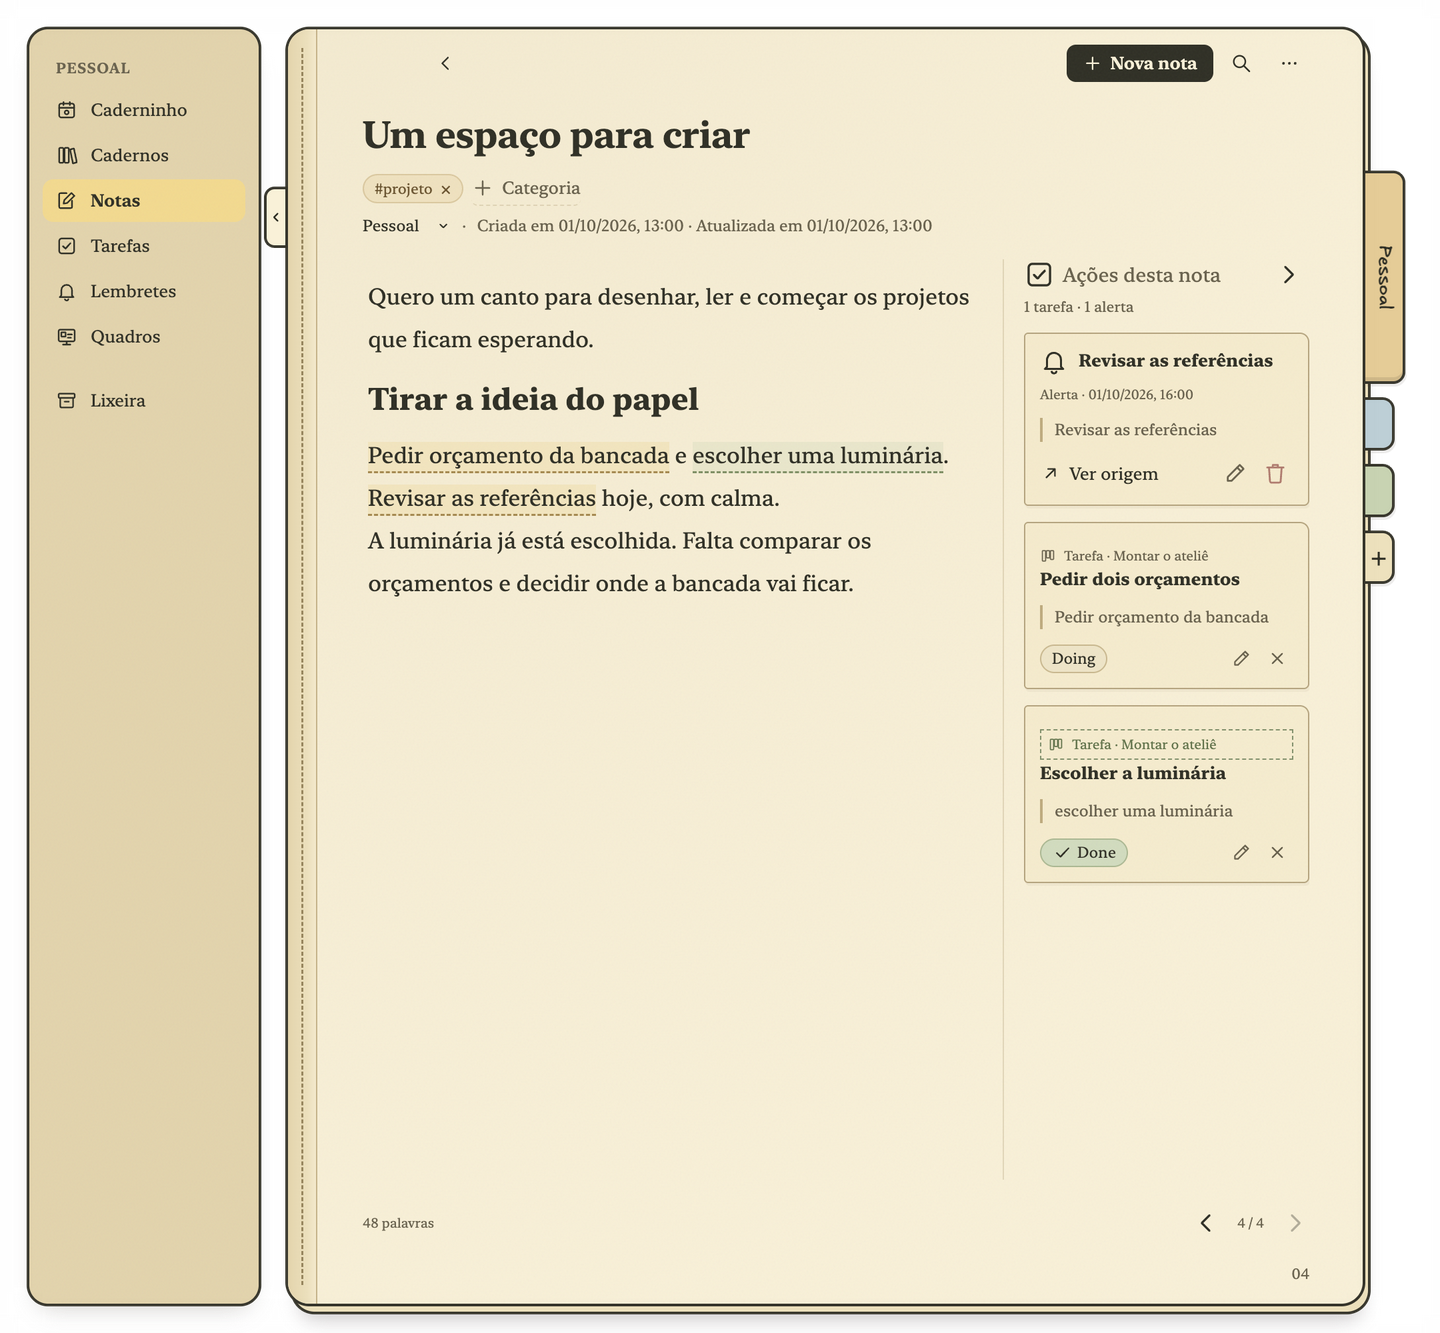
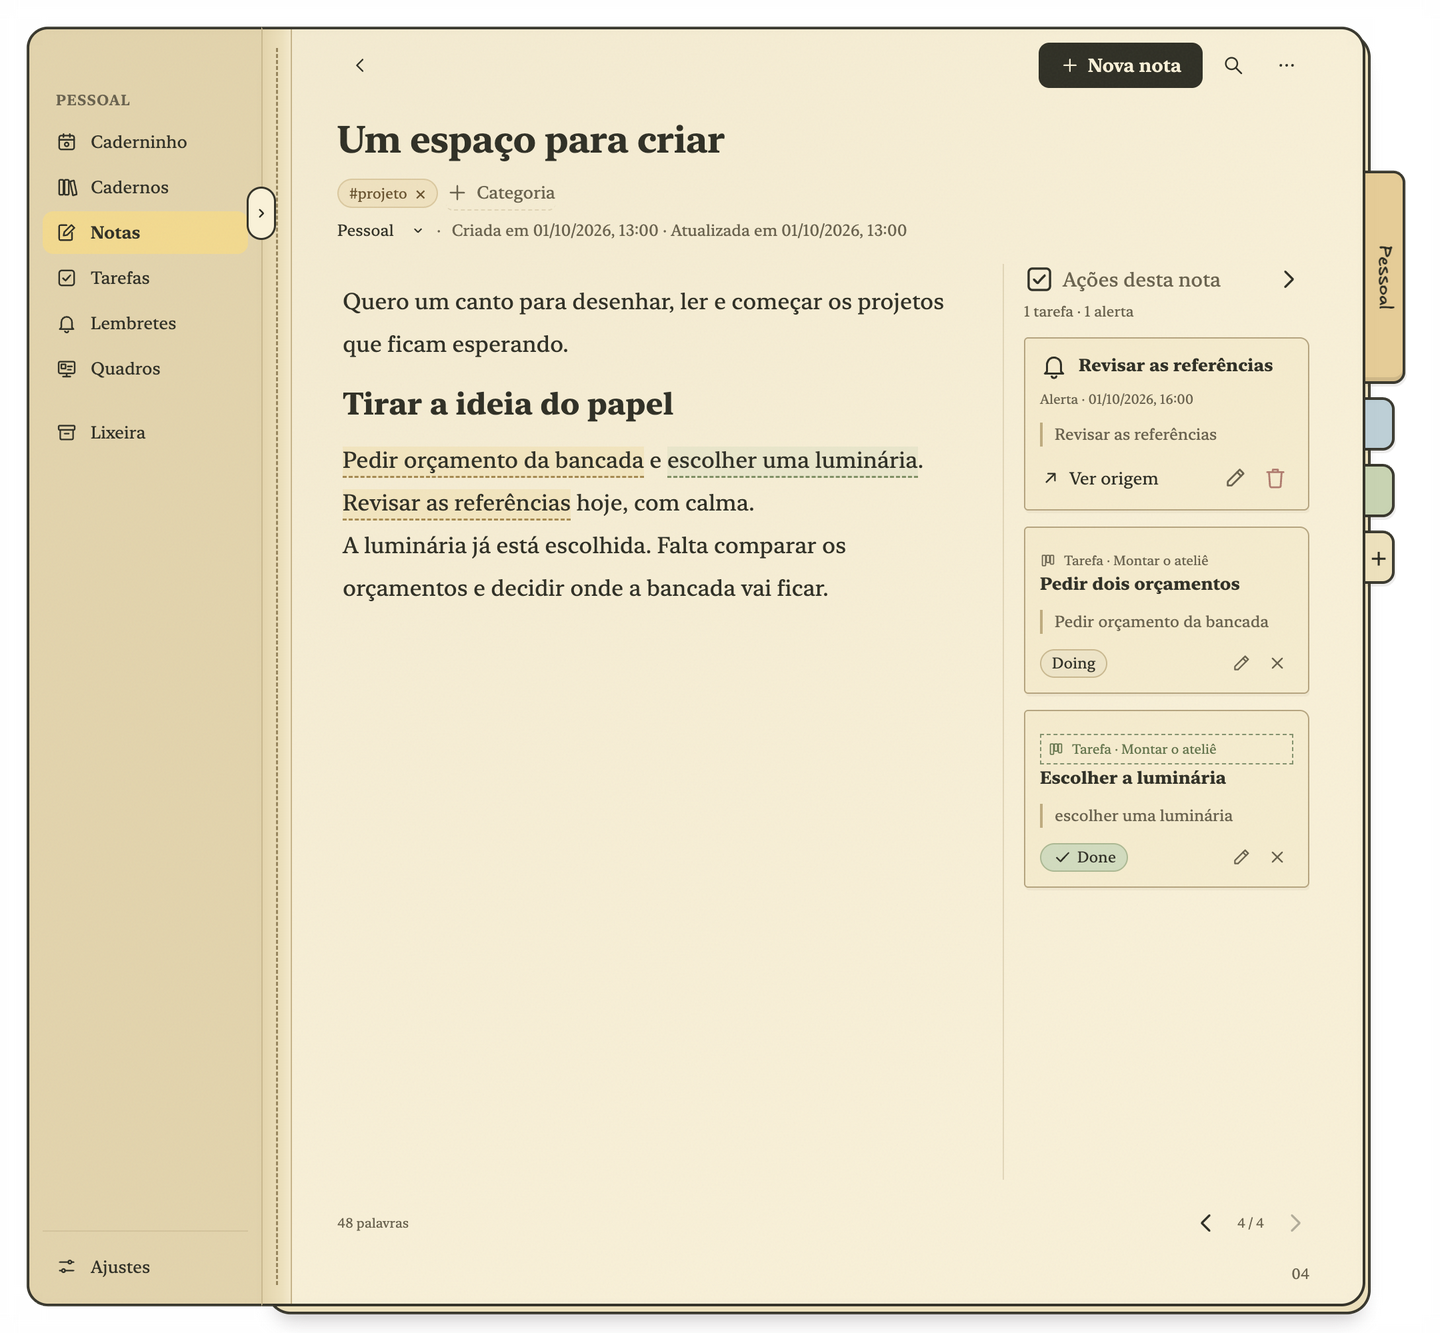
docs: user guide, development notes, screenshots and site for the new home (spec 012)

diff --git a/site/index.html b/site/index.html
@@ -95,13 +95,17 @@ svg.i{width:16px;height:16px;flex:none;fill:none;stroke:currentColor;stroke-widt
 .dots i.on{background:var(--ink);transform:scale(1.3)}
 
 /* book */
-.book{position:relative;height:min(700px,calc(100vh - 110px));display:grid;grid-template-columns:168px minmax(0,1fr);gap:10px}
-.side{background:var(--kraft);border:2px solid var(--edge);border-radius:14px;padding:22px 12px;box-shadow:0 4px 0 -1px #d9c38f,0 4px 0 1px var(--edge)}
+.book{position:relative;height:min(700px,calc(100vh - 110px));display:grid;grid-template-columns:168px minmax(0,1fr);gap:0}
+.side{position:relative;background:var(--kraft);border:2px solid var(--edge);border-right:0;border-radius:14px 0 0 14px;padding:46px 12px 22px;box-shadow:0 4px 0 -1px #d9c38f,0 4px 0 1px var(--edge)}
+.side .lights{position:absolute;left:14px;top:16px;display:flex;gap:8px}
+.side .lights i{width:12px;height:12px;border-radius:50%;background:#ff5f57;border:.5px solid #0000001f}
+.side .lights i:nth-child(2){background:#febc2e}
+.side .lights i:nth-child(3){background:#28c840}
 .side .nb{font-size:11px;letter-spacing:.08em;color:var(--muted);font-weight:650;margin:0 0 12px 10px}
 .side div.row{display:flex;align-items:center;gap:10px;font-size:14px;padding:7px 10px;border-radius:8px;margin-bottom:2px;transition:background .3s}
 .side div.row.on{background:var(--select);font-weight:650}
 .side .gap{height:14px}
-.paper{position:relative;border:2px solid var(--edge);border-radius:14px;background:var(--paper);perspective:2200px;box-shadow:0 5px 0 -1px var(--shade),0 5px 0 1px var(--edge),0 10px 0 -1px var(--shade),0 10px 0 1px var(--edge),0 30px 50px -24px rgba(54,53,42,.45)}
+.paper{position:relative;border:2px solid var(--edge);border-left-width:1px;border-radius:0 14px 14px 0;background:var(--paper);perspective:2200px;box-shadow:0 5px 0 -1px var(--shade),0 5px 0 1px var(--edge),0 10px 0 -1px var(--shade),0 10px 0 1px var(--edge),0 30px 50px -24px rgba(54,53,42,.45)}
 .paper::before{content:"";position:absolute;left:14px;top:0;bottom:0;border-left:1.5px dashed var(--hairline);z-index:4}
 .tabs{position:absolute;right:-26px;top:120px;display:flex;flex-direction:column;gap:8px;z-index:-1}
 .tabs i{display:block;width:26px;border:2px solid var(--edge);border-left:0;border-radius:0 8px 8px 0}
@@ -214,7 +218,7 @@ svg.i{width:16px;height:16px;flex:none;fill:none;stroke:currentColor;stroke-widt
 /* day pages */
 .dayhead{display:flex;justify-content:space-between;align-items:flex-end;gap:16px;margin-bottom:6px}
 .dayhead .date{font:clamp(18px,2vw,24px) var(--hand);color:var(--ink);text-align:right}
-.daysum{font-size:13px;color:var(--muted);margin-bottom:14px}
+.pair{display:grid;grid-template-columns:1fr 1fr;gap:18px}
 .ro{display:inline-flex;align-items:center;font-size:12px;font-weight:400;border:1px dashed var(--muted);color:var(--muted);border-radius:4px;padding:1px 7px;margin-left:10px;vertical-align:5px}
 .strip{border-top:1px solid var(--hairline);padding:9px 0 12px}
 .strip h3{font-size:16px;font-weight:600;display:flex;align-items:center;gap:8px;margin:0 0 8px}
@@ -324,6 +328,7 @@ footer{display:flex;justify-content:space-between;flex-wrap:wrap;gap:10px;font-s
 @media (max-width:1100px){
   .book{grid-template-columns:minmax(0,1fr)}
   .side{display:none}
+  .paper{border-left-width:2px;border-radius:14px}
   .stage{gap:32px}
 }
 @media (max-width:860px){
@@ -349,6 +354,7 @@ footer{display:flex;justify-content:space-between;flex-wrap:wrap;gap:10px;font-s
   .tmodal{grid-template-columns:1fr;left:3%;right:3%}
   .tmodal .tside{display:none}
   .strip.st-last{display:none}
+  .pair{grid-template-columns:1fr}
   .postit{font-size:12px;height:76px;padding:6px}
   .postit[style*="top:226px"]{top:186px!important}
   .bt{font-size:20px}
@@ -438,7 +444,7 @@ footer{display:flex;justify-content:space-between;flex-wrap:wrap;gap:10px;font-s
       </div>
       <div class="cap" data-for="8">
         <p>Todo dia começa com uma página que junta o que importa.</p>
-        <p class="small">A última nota e as páginas ligadas a ela, a lista de tarefas mais recente e os lembretes de hoje.</p>
+        <p class="small">Um espaço para escrever o dia, as conexões da última nota, os lembretes de hoje e a lista de tarefas mais recente.</p>
       </div>
       <div class="cap" data-for="9">
         <p>Os dias anteriores ficam guardados como estavam.</p>
@@ -457,6 +463,7 @@ footer{display:flex;justify-content:space-between;flex-wrap:wrap;gap:10px;font-s
 
     <div class="book" aria-hidden="true">
       <div class="side">
+        <div class="lights"><i></i><i></i><i></i></div>
         <div class="nb">PESSOAL</div>
         <div class="row" data-nav="dia"><svg class="i"><use href="#i-cal"/></svg>Caderninho</div>
         <div class="row"><svg class="i"><use href="#i-books"/></svg>Cadernos</div>
@@ -541,9 +548,19 @@ footer{display:flex;justify-content:space-between;flex-wrap:wrap;gap:10px;font-s
         </div>
 
         <div class="pg" data-page="hoje">
-          <div class="dayhead"><h2>Página do dia</h2><div class="date">quinta-feira, 1 de outubro</div></div>
-          <div class="daysum">3 lembretes · 4 notas recentes</div>
-          <div class="strip st-last"><h3><span class="fold">▾</span><svg class="i"><use href="#i-note"/></svg>Última nota<span class="aside">com conexões</span></h3><div class="last"><b>Reforma da cozinha</b><p>Conversei com a Ana sobre a bancada. A ideia é trocar o granito por madeira…</p></div></div>
+          <div class="dayhead"><span></span><div class="date">quinta-feira, 1 de outubro</div></div>
+          <div class="strip"><h3><span class="fold">▾</span><svg class="i"><use href="#i-note"/></svg>Nota do dia</h3><div class="last"><p>Ligar para a marcenaria antes das 16h. Levar as medidas da parede da pia.</p></div></div>
+          <div class="pair">
+            <div class="strip st-last"><h3><span class="fold">▾</span><svg class="i"><use href="#i-note"/></svg>Conexões<span class="aside">Reforma da cozinha</span></h3>
+              <div class="rem">Pedir dois orçamentos</div>
+              <div class="rem">Ideias para a bancada</div>
+            </div>
+            <div class="strip"><h3><span class="fold">▾</span><svg class="i"><use href="#i-bell"/></svg>Lembretes de hoje</h3>
+              <div class="rem"><b>14:00</b>Revisar o planejamento</div>
+              <div class="rem"><b>16:00</b>Ligar para o eletricista</div>
+              <div class="rem"><b>18:00</b>Pausa para caminhar</div>
+            </div>
+          </div>
           <div class="strip mini"><h3><span class="fold">▾</span><svg class="i"><use href="#i-kanban"/></svg>Reforma da cozinha<span class="aside">último pipeline · 2 finalizados de 6</span></h3>
             <div class="kb">
               <div class="kc"><h4>Backlog <i>2</i></h4><div class="kd">Trocar o rejunte da pia<small>12/09</small></div><div class="kd">Escolher a torneira<small>14/09</small></div></div>
@@ -553,16 +570,10 @@ footer{display:flex;justify-content:space-between;flex-wrap:wrap;gap:10px;font-s
               <div class="kc final"><h4>Done <i>2</i></h4><div class="kd">Pedir dois orçamentos<small>10/09</small></div><div class="kd">Ligar para o eletricista<small>09/09</small></div></div>
             </div>
           </div>
-          <div class="strip"><h3><span class="fold">▾</span><svg class="i"><use href="#i-bell"/></svg>Lembretes<span class="aside">3 neste dia</span></h3>
-            <div class="rem"><b>14:00</b>Revisar o planejamento</div>
-            <div class="rem"><b>16:00</b>Ligar para o eletricista</div>
-            <div class="rem"><b>18:00</b>Pausa para caminhar</div>
-          </div>
         </div>
 
         <div class="pg" data-page="ontem">
-          <div class="dayhead"><h2>Página anterior<span class="ro">somente leitura</span></h2><div class="date">quarta-feira, 30 de setembro</div></div>
-          <div class="daysum">1 lembrete · 3 notas do dia</div>
+          <div class="dayhead"><span class="ro">somente leitura</span><div class="date">quarta-feira, 30 de setembro</div></div>
           <div class="strip"><h3><span class="fold">▾</span><svg class="i"><use href="#i-bell"/></svg>Lembretes<span class="aside">1 neste dia</span></h3>
             <div class="rem"><b>10:30</b>Reunião do condomínio</div>
           </div>
@@ -619,8 +630,8 @@ footer{display:flex;justify-content:space-between;flex-wrap:wrap;gap:10px;font-s
       <figure><img src="img/kanban.webp" width="1440" height="926" loading="lazy" alt="Lista de tarefas Montar o ateliê dividida em cinco colunas, com a data de criação e o número de comentários em cada tarefa."><figcaption>Uma lista de tarefas, com uma coluna para cada etapa.</figcaption></figure>
     </div>
     <div class="shots">
-      <figure><img src="img/tarefa.webp" width="1306" height="1269" loading="lazy" alt="Tarefa aberta com detalhes em lista e tabela, uma imagem, comentários (um deles editado) e, ao lado, a etapa atual, o responsável, a data de criação e o histórico."><figcaption>Uma tarefa aberta, com os detalhes e a conversa.</figcaption></figure>
-      <figure><img src="img/pagina-do-dia.webp" width="1440" height="1543" loading="lazy" alt="Página do dia com a última nota, a lista de tarefas mais recente, os lembretes de hoje e as últimas notas."><figcaption>A página do dia.</figcaption></figure>
+      <figure><img src="img/tarefa.webp" width="1307" height="1227" loading="lazy" alt="Tarefa aberta com detalhes em lista e tabela, uma imagem, comentários (um deles editado) e, ao lado, a etapa atual, o responsável, a data de criação e o histórico."><figcaption>Uma tarefa aberta, com os detalhes e a conversa.</figcaption></figure>
+      <figure><img src="img/pagina-do-dia.webp" width="1440" height="1543" loading="lazy" alt="Página do dia com a nota do dia, as conexões da última nota ao lado dos lembretes de hoje, as últimas notas e a lista de tarefas mais recente."><figcaption>A página do dia.</figcaption></figure>
     </div>
     <figure class="wide"><img src="img/quadro.webp" width="1440" height="1200" loading="lazy" alt="Quadro Ideias para o ateliê com post-its coloridos ligados por setas e um título escrito à mão."><figcaption>Um quadro com post-its e setas.</figcaption></figure>
   </section>

diff --git a/docs/USER_GUIDE.md b/docs/USER_GUIDE.md
@@ -6,7 +6,7 @@ Os nomes de botões e menus aparecem em negrito, exatamente como estão no app.
 
 ## Comece por aqui
 
-Abra o **Caderninho.app**. A primeira tela, **Caderninho**, mostra em faixas a nota atualizada mais recentemente no caderno (com o grafo de conexões dela), o kanban do pipeline mais recente, os lembretes de hoje e as últimas notas.
+Abra o **Caderninho.app**. A primeira tela, **Caderninho**, mostra a **Nota do dia** (um espaço para escrever direto na página), as **Conexões** da última nota ao lado dos **Lembretes de hoje**, as **Últimas notas** e o kanban do pipeline mais recente.
 
 Para escrever, abra **Notas**: a seção abre na lista das suas notas. Clique numa nota para abri-la, ou em **+ Nova nota** para começar uma. Dê um título e comece. As mudanças são salvas automaticamente no seu computador. Se algo falhar, o app mostra um aviso.
 
@@ -30,7 +30,7 @@ Na própria página, o nome do caderno abaixo do título, ao lado das datas, per
 
 | Seção | Para quê |
 | --- | --- |
-| **Caderninho** | Visão do dia: última nota, kanban do pipeline mais recente, lembretes e últimas notas. |
+| **Caderninho** | Visão do dia: nota do dia, conexões da última nota, lembretes de hoje, últimas notas e kanban do pipeline mais recente. |
 | **Cadernos** | Criar, editar, abrir e remover cadernos. |
 | **Notas** | Texto livre, categorias, imagens, cartões de link e tarefas criadas a partir do texto. |
 | **Tarefas** | Pipelines: quadros kanban com colunas configuráveis, onde cada tarefa é um card. |
@@ -42,9 +42,15 @@ Na própria página, o nome do caderno abaixo do título, ao lado das datas, per
 
 ### Página do dia
 
-A página de hoje é feita de faixas, de cima para baixo: **Última nota** (com o grafo), o **kanban** do pipeline criado mais recentemente no caderno, **Lembretes** e **Últimas notas**. A seta à esquerda de cada faixa a recolhe ou abre, e o app lembra essa escolha. No kanban da home você arrasta cards entre colunas e clica num card para abrir a tarefa, como na página do pipeline; **Abrir pipeline** leva ao quadro inteiro. Sem pipelines, a faixa oferece **+ Novo pipeline**.
+A página de hoje é feita de seções, de cima para baixo:
 
-No topo da página de hoje, a nota mais recente do caderno aparece com a formatação e as mídias dela. Quando ela tem conexões, **Ideias por perto** as mostra ao lado, como um grafo. Use **Continuar nesta nota** para editá-la, ou clique numa conexão para abrir outra página. No dia seguinte, o resumo da página anterior (lembretes e últimas notas) continua disponível no seletor de datas. Os dias anteriores são somente leitura; escolha **Hoje** para voltar ao dia atual.
+- **Nota do dia**: escreva direto na página, com o mesmo editor das tarefas (blocos, `/`, formatação, listas e tabelas). A nota é criada quando você digita a primeira letra e salva sozinha enquanto você escreve. Cada caderno tem a sua nota do dia: ao trocar de caderno, aparece a nota daquele caderno (ou o campo em branco), e ao voltar a sua nota continua lá. Ela é uma nota comum: aparece em **Notas**, nas **Últimas notas** e na busca. No dia seguinte, o campo começa em branco. Se ela for para a lixeira, a próxima letra começa outra. Para adicionar mídia, diagramas ou ações na margem, abra a nota.
+- **Conexões**: o grafo da nota atualizada mais recentemente no caderno. Enquanto você escreve a nota do dia, ele espera você parar de digitar por alguns segundos antes de recalcular; o botão de recalcular faz isso na hora. O título no topo do card abre a nota. Sem nenhuma nota no caderno, o card não aparece.
+- **Lembretes de hoje**: os alertas do dia, ao lado das conexões.
+- **Últimas notas**: as três notas mais recentes, em cards.
+- **Kanban**: o pipeline criado mais recentemente no caderno. Você arrasta cards entre colunas e clica num card para abrir a tarefa, como na página do pipeline; **Abrir pipeline** leva ao quadro inteiro. Sem pipelines, aparece **+ Novo pipeline**.
+
+A seta à esquerda de cada seção a recolhe ou abre, e o app lembra essa escolha. No dia seguinte, a página anterior (lembretes e últimas notas) continua disponível no seletor de datas. Os dias anteriores são somente leitura e não mostram a nota do dia nem as conexões; escolha **Hoje** para voltar ao dia atual.
 
 ### Categorias
 
@@ -166,7 +172,7 @@ Nas notas, o histórico de desfazer inclui título, texto, pílulas e linhas de 
 
 Arraste uma área não editável do caderno para mover a janela, e arraste a borda do caderno para redimensioná-la. A janela usa os botões do próprio Mac: o vermelho fecha, o amarelo minimiza e o verde aumenta a janela até a altura disponível, com largura de até 1.200 pixels. Um clique duplo no topo também aumenta ou restaura a janela.
 
-A aba de papel à esquerda recolhe ou abre o menu lateral. Essa preferência fica salva.
+O menu lateral fica grudado na página, separado pela costura tracejada, com os botões da janela no topo. A aba na borda dele recolhe ou abre o menu; recolhido, a aba e os botões da janela ficam no canto da página, depois da costura. Essa preferência fica salva. A janela tem largura mínima de 760 pixels.
 
 ## Ajustes
 

diff --git a/docs/DEVELOPMENT.md b/docs/DEVELOPMENT.md
@@ -42,7 +42,7 @@ To validate only actions linked to passages and media, including the editor's ri
 npm run test:app -- --source-only
 ```
 
-To validate only Mermaid diagram blocks (editor, undo, home preview, clipboard and PDF):
+To validate only Mermaid diagram blocks (editor, undo, clipboard and PDF):
 
 ```sh
 npm run test:app -- --diagram-only
@@ -65,6 +65,20 @@ To validate only the Settings page (spec 010): the sidebar, menu command and **A
 ```sh
 npm run test:app -- --settings-only
 ```
+
+To validate only the home page (spec 012): section order, graph card with refresh and empty state, recent-note cards, kanban, folding, the daily note (an editor on the page, one note created on the first character, autosave, one daily note per notebook) and a past day without the daily note or graph:
+
+```sh
+npm run test:app -- --home-only
+```
+
+To validate only the window shell: the attached sidebar with the stitched binding, the collapse tab, traffic lights at the sidebar top or past the binding when collapsed, one 34 px height for toolbar controls, and the Nota menu per view:
+
+```sh
+npm run test:app -- --mac-shell-only
+```
+
+`tests/selection-smoke.js` currently fails on `main` too (`Cannot read properties of undefined (reading 'focus')`), so the default suite stops there; run the suites after it with their scoped flags.
 
 The smoke runner also works on Linux under a virtual display (`xvfb-run -a npx electron --no-sandbox tests/smoke/run.cjs --pipelines-only`). macOS-only checks (the New York font and native window buttons in the default suite, `Ctrl+A` in diagram code in `--native-only`/`--editor-only`, the native right-click in `--source-only`, focus in `--search-only` and PDF title extraction in `--pdf-cuts-only`) fail there and must be confirmed on a Mac.
 
@@ -108,7 +122,7 @@ To generate only the linked actions and collage screenshots:
 npx electron scripts/capture-readme.cjs --features-only
 ```
 
-To generate only the task screenshots (note with tasks, kanban, open task, board and the day page):
+To generate only the task screenshots (note with tasks, kanban, open task, board and the day page with a fictional daily note):
 
 ```sh
 npx electron scripts/capture-readme.cjs --pipelines-only

diff --git a/README.md b/README.md
@@ -58,9 +58,9 @@ Algumas ideias não cabem em linhas. No quadro, você espalha post-its, liga tud
 
 ## O seu dia numa página
 
-A primeira tela, **Caderninho**, junta o que importa hoje: a última nota em que você mexeu e as páginas ligadas a ela, a lista de tarefas mais recente (dá para avançar as tarefas ali mesmo), os lembretes do dia e as últimas notas. Cada parte pode ser recolhida.
+A primeira tela, **Caderninho**, junta o que importa hoje: a **nota do dia**, um espaço para escrever direto na página, salvo enquanto você digita (uma por caderno, por dia); as páginas ligadas à última nota ao lado dos lembretes de hoje; as últimas notas; e a lista de tarefas mais recente (dá para avançar as tarefas ali mesmo). Cada parte pode ser recolhida.
 
-![Página do dia com a última nota, a lista de tarefas mais recente, os lembretes de hoje e as últimas notas](docs/images/pagina-do-dia.png)
+![Página do dia com a nota do dia, as conexões da última nota ao lado dos lembretes de hoje, as últimas notas e a lista de tarefas mais recente](docs/images/pagina-do-dia.png)
 
 No dia seguinte começa uma página nova, e as anteriores ficam guardadas como estavam: o que estava agendado e as notas daquele dia. É um diário que você nunca precisou escrever.
 
